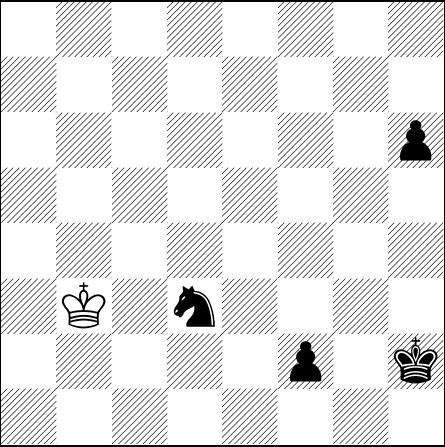
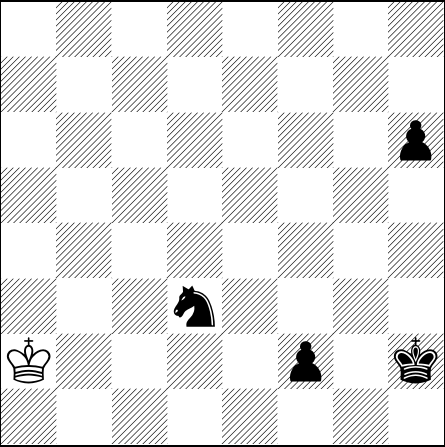
[automated] Regenerate text/pdf for chessboard

Changed region(s): [[0.1169, 0.6107, 0.2337, 0.7562], [0.0, 0.7562, 0.1169, 0.8725]]

diff --git a/default_filepath.tex b/default_filepath.tex
@@ -13,6 +13,6 @@
 \normalsize%
 \setchessboard{showmover=false}%
 \newgame%
-\fenboard{8/8/7p/8/8/1K1n4/5p1k/8 w - - 0 175}%
+\fenboard{8/8/7p/8/8/3n4/K4p1k/8 b - - 1 175}%
 \chessboard%
 \end{document}
